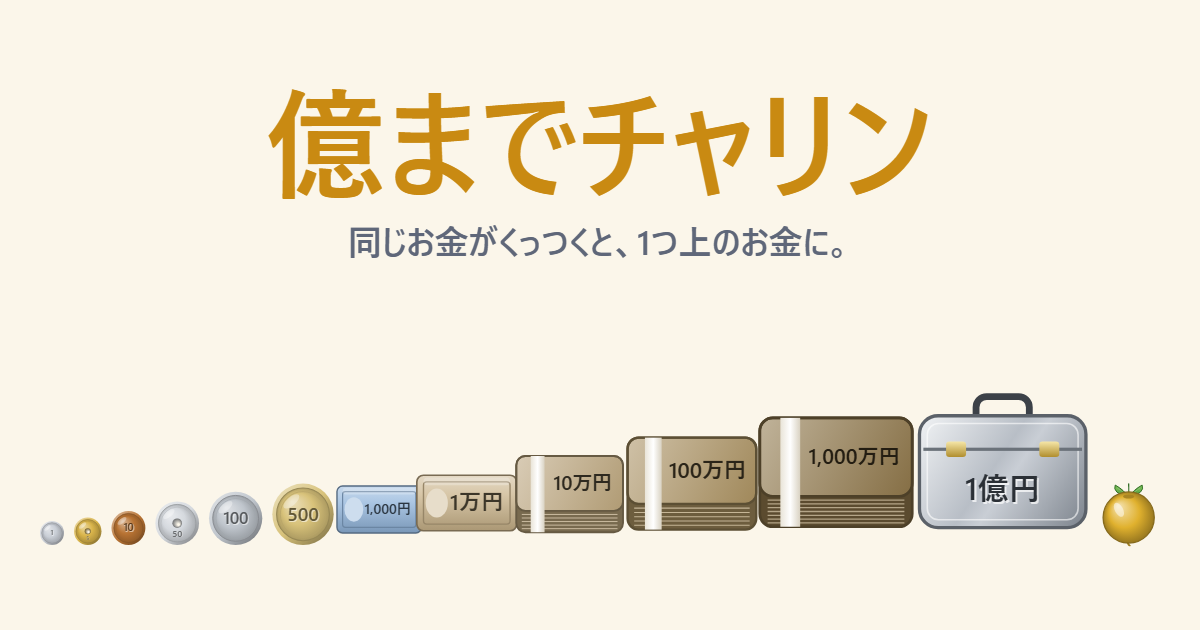
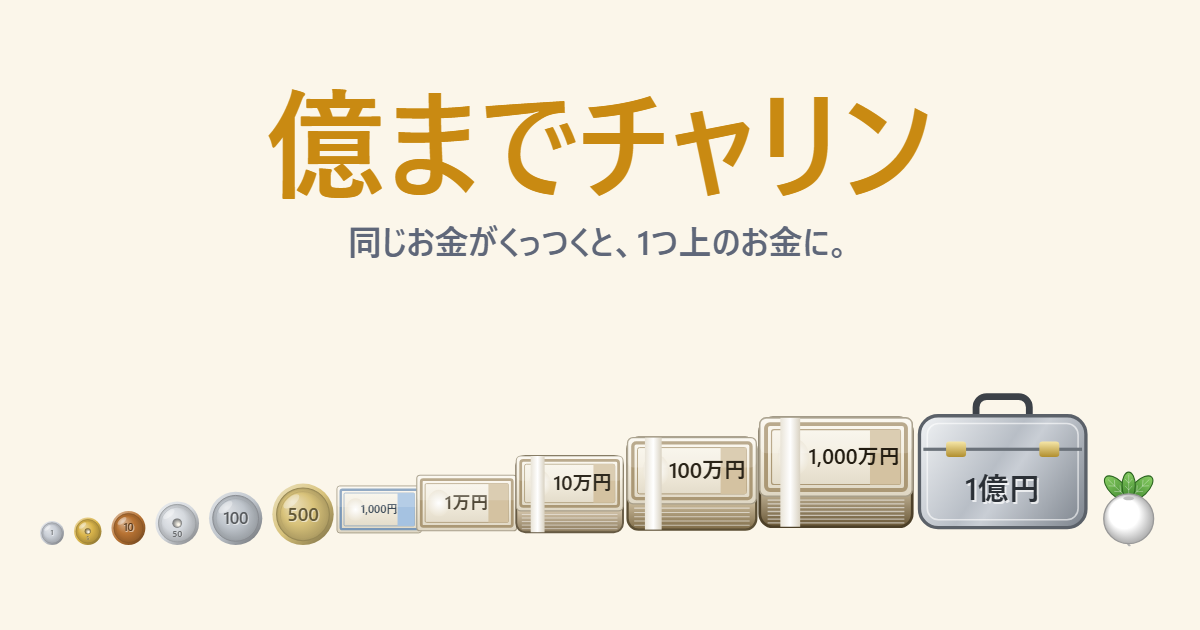
お札を紙幣風（案A）に、束の上のお札もそろえる。かぶの葉を大きく、カード画像のかぶを白に

Changed region(s): [[0.2775, 0.6333, 0.7708, 0.8746], [0.8942, 0.754, 0.9867, 0.8746]]

diff --git a/src/ui/render.ts b/src/ui/render.ts
@@ -13,7 +13,7 @@ const TOP = currency.tiers.length - 1;
 const FONT = 'system-ui, "Hiragino Sans", "Noto Sans JP", sans-serif';
 
 /** 色を白（amt>0）または黒（amt<0）に寄せる */
-function shade(hex: string, amt: number): string {
+export function shade(hex: string, amt: number): string {
   const n = parseInt(hex.slice(1), 16);
   const mix = (c: number) => Math.round(amt >= 0 ? c + (255 - c) * amt : c * (1 + amt));
   const r = mix((n >> 16) & 255);
@@ -23,7 +23,7 @@ function shade(hex: string, amt: number): string {
 }
 
 /** 文字を幅 maxW に収めて真ん中に書く。emboss なら左上に明るい影を付けて刻印のように */
-function label(ctx: CanvasRenderingContext2D, text: string, x: number, y: number, size: number, maxW: number, color: string, emboss = '') {
+export function label(ctx: CanvasRenderingContext2D, text: string, x: number, y: number, size: number, maxW: number, color: string, emboss = '') {
   ctx.font = `800 ${size}px ${FONT}`;
   const w = ctx.measureText(text).width;
   if (w > maxW) {
@@ -41,7 +41,7 @@ function label(ctx: CanvasRenderingContext2D, text: string, x: number, y: number
   ctx.fillText(text, x, yy);
 }
 
-function roundRect(ctx: CanvasRenderingContext2D, x: number, y: number, w: number, h: number, r: number) {
+export function roundRect(ctx: CanvasRenderingContext2D, x: number, y: number, w: number, h: number, r: number) {
   ctx.beginPath();
   ctx.roundRect(x, y, w, h, Math.max(0, r));
 }
@@ -111,49 +111,83 @@ function drawCoin(ctx: CanvasRenderingContext2D, tr: Tier, r: number, words: str
   ctx.fill();
 }
 
-/** お札：紙の面（少し反った光）、内側の枠、金額 */
-function drawBill(ctx: CanvasRenderingContext2D, tr: Tier, w: number, h: number, corner: number, words: string) {
-  const c = tr.color;
-  roundRect(ctx, -w / 2, -h / 2, w, h, corner);
+/** 四隅の小さな数字を描く大きさの下限（これより小さいお札では、つぶれるので描かない） */
+const BILL_DETAIL_MIN_H = 70;
+
+/** お札の面（2026-11-25 オーナー決定：案A 紙幣風）。生成りの紙に色インクの二重の枠と右の色帯、すかしの丸、
+ *  大きいときだけ四隅に小さな数字、紙の反りの光。肖像・地紋は描かない。(0,0) を中心に幅 w・高さ h */
+function billFace(ctx: CanvasRenderingContext2D, ink: string, w: number, h: number, corner: number, words: string, cornerNum: string) {
+  roundRect(ctx, -w / 2, -h / 2, w, h, corner * 0.5);
   const g = ctx.createLinearGradient(0, -h / 2, 0, h / 2);
-  g.addColorStop(0, shade(c, 0.5));
-  g.addColorStop(0.35, shade(c, 0.25));
-  g.addColorStop(1, shade(c, -0.15));
+  g.addColorStop(0, '#fbf8ef');
+  g.addColorStop(0.5, '#f1ebdc');
+  g.addColorStop(1, '#ded6c3');
   ctx.fillStyle = g;
   ctx.fill();
-  ctx.lineWidth = Math.max(0.8, h * 0.03);
-  ctx.strokeStyle = shade(c, -0.4);
+  ctx.lineWidth = Math.max(0.8, h * 0.02);
+  ctx.strokeStyle = '#a89f8a';
   ctx.stroke();
-  // 内側の枠
-  const m = h * 0.12;
-  roundRect(ctx, -w / 2 + m, -h / 2 + m, w - m * 2, h - m * 2, corner * 0.5);
-  ctx.lineWidth = Math.max(0.6, h * 0.025);
-  ctx.strokeStyle = shade(c, -0.25);
+  // インクの枠（二重線）
+  const m = h * 0.08;
+  roundRect(ctx, -w / 2 + m, -h / 2 + m, w - m * 2, h - m * 2, corner * 0.3);
+  ctx.lineWidth = Math.max(1, h * 0.05);
+  ctx.strokeStyle = shade(ink, -0.15);
   ctx.stroke();
-  // 左の丸い空き（すかしの場所。模様は描かない）
+  const m2 = m + h * 0.07;
+  roundRect(ctx, -w / 2 + m2, -h / 2 + m2, w - m2 * 2, h - m2 * 2, corner * 0.2);
+  ctx.lineWidth = Math.max(0.5, h * 0.015);
+  ctx.stroke();
+  // 右の色帯
+  const bw = w * 0.2;
+  ctx.fillStyle = shade(ink, 0.2);
+  ctx.fillRect(w / 2 - m2 - bw, -h / 2 + m2, bw, h - m2 * 2);
+  // すかしの丸（左）
+  const wx = -w * 0.28;
   ctx.beginPath();
-  ctx.ellipse(-w * 0.3, 0, h * 0.2, h * 0.26, 0, 0, Math.PI * 2);
-  ctx.fillStyle = shade(c, 0.55);
+  ctx.ellipse(wx, 0, h * 0.2, h * 0.24, 0, 0, Math.PI * 2);
+  const wm = ctx.createRadialGradient(wx, 0, 0, wx, 0, h * 0.24);
+  wm.addColorStop(0, '#ffffff');
+  wm.addColorStop(1, '#ebe4d3');
+  ctx.fillStyle = wm;
   ctx.fill();
-  if (words) label(ctx, words, w * 0.1, 0, h * 0.4, w * 0.55, shade(c, -0.7));
-  // 上のつや
-  roundRect(ctx, -w / 2 + corner, -h / 2 + h * 0.04, w - corner * 2, h * 0.14, h * 0.07);
-  ctx.fillStyle = 'rgba(255,255,255,0.25)';
+  // 四隅の数字（大きいときだけ）
+  if (cornerNum && h >= BILL_DETAIL_MIN_H) {
+    label(ctx, cornerNum, -w / 2 + m2 + h * 0.13, -h / 2 + m2 + h * 0.1, h * 0.16, w * 0.15, shade(ink, -0.45));
+    label(ctx, cornerNum, w / 2 - m2 - h * 0.13, h / 2 - m2 - h * 0.1, h * 0.16, w * 0.15, '#ffffff');
+  }
+  if (words) label(ctx, words, 0, 0, h * 0.36, w * 0.44, shade(ink, -0.6));
+  // 紙の反り（上が明るい）
+  roundRect(ctx, -w / 2, -h / 2, w, h * 0.45, corner * 0.5);
+  ctx.fillStyle = 'rgba(255,255,255,0.18)';
   ctx.fill();
 }
 
-/** 束：横から見た厚み（お札の重なり）＋上のお札＋帯 */
+/** お札の四隅の数字（1万円札なら「1」、千円札なら「1000」） */
+const billNumber = (value: number) => String(value >= 10_000 ? value / 10_000 : value);
+
+/** お札 */
+function drawBill(ctx: CanvasRenderingContext2D, tr: Tier, w: number, h: number, corner: number, words: string) {
+  billFace(ctx, tr.color, w, h, corner, words, billNumber(tr.value));
+}
+
+/** 束の上に見えるお札のインクの色：一番高いお札（1万円札）の色 */
+const BUNDLE_INK = [...currency.tiers].reverse().find((t) => t.look === 'bill')?.color ?? '#C9B38A';
+
+/** 束：横から見た厚み（お札の重なり）＋上のお札（案A の面）＋帯 */
 function drawBundle(ctx: CanvasRenderingContext2D, tr: Tier, w: number, h: number, corner: number, words: string) {
   const c = tr.color;
   const side = h * 0.28; // 厚みの部分
   const faceH = h - side;
-  // 厚み（下と右に見える紙の重なり）
+  // 厚み（紙の重なり。束ごとの色を少し混ぜる）
   roundRect(ctx, -w / 2, -h / 2, w, h, corner);
-  ctx.fillStyle = shade(c, -0.35);
+  const sg = ctx.createLinearGradient(0, -h / 2 + faceH, 0, h / 2);
+  sg.addColorStop(0, shade(c, 0.35));
+  sg.addColorStop(1, shade(c, -0.25));
+  ctx.fillStyle = sg;
   ctx.fill();
   const lines = tr.value >= 10_000_000 ? 7 : 5;
   ctx.lineWidth = Math.max(0.5, h * 0.012);
-  ctx.strokeStyle = shade(c, 0.35);
+  ctx.strokeStyle = 'rgba(255,255,255,0.55)';
   for (let i = 1; i <= lines; i++) {
     const y = -h / 2 + faceH + (side * i) / (lines + 1);
     ctx.beginPath();
@@ -161,18 +195,15 @@ function drawBundle(ctx: CanvasRenderingContext2D, tr: Tier, w: number, h: numbe
     ctx.lineTo(w / 2 - corner * 0.6, y);
     ctx.stroke();
   }
-  // 上のお札
-  roundRect(ctx, -w / 2, -h / 2, w, faceH, corner);
-  const g = ctx.createLinearGradient(-w / 2, -h / 2, w / 2, faceH - h / 2);
-  g.addColorStop(0, shade(c, 0.45));
-  g.addColorStop(1, shade(c, -0.05));
-  ctx.fillStyle = g;
-  ctx.fill();
+  roundRect(ctx, -w / 2, -h / 2, w, h, corner);
   ctx.lineWidth = Math.max(0.8, h * 0.025);
   ctx.strokeStyle = shade(c, -0.45);
   ctx.stroke();
-  roundRect(ctx, -w / 2, -h / 2, w, h, corner);
-  ctx.stroke();
+  // 上のお札（金額は帯の右に書くので、ここでは書かない）
+  ctx.save();
+  ctx.translate(0, -h / 2 + faceH / 2);
+  billFace(ctx, BUNDLE_INK, w, faceH, corner, '', '');
+  ctx.restore();
   // 帯（左寄り。厚みの部分まで回り込む）
   const bx = -w * 0.3;
   const bw = w * 0.13;
@@ -244,37 +275,49 @@ export function drawMoney(ctx: CanvasRenderingContext2D, tier: number, r: number
 /** かぶ（株）の玉を描く（2026-11-25 オーナー決定）。物理の形は円のまま。
  *  色は平均取得価額と今の株価で決まる（全部のかぶが同じ色）：同じなら白、上がると金、下がると黒 */
 export function drawTurnip(ctx: CanvasRenderingContext2D, r: number, color: string): void {
-  // 葉（3枚。葉脈つき）
+  // 葉（3枚。大きめ・葉脈つき。2026-11-25 オーナー指定で大きく）。付け根から先へ、ふっくらした楕円
+  const baseY = -r * 0.42;
   const leaves: [number, number][] = [
-    [-0.42, -0.95],
-    [0.42, -0.95],
-    [0, -1.0],
+    [-0.72, -1.12],
+    [0.72, -1.12],
+    [0, -1.28],
   ];
   for (const [lx, ly] of leaves) {
     const tipX = lx * r;
-    const tipY = ly * r * 0.92;
+    const tipY = ly * r;
+    const len = Math.hypot(tipX, tipY - baseY);
+    const ang = Math.atan2(tipY - baseY, tipX);
+    ctx.save();
+    ctx.translate(0, baseY);
+    ctx.rotate(ang);
     ctx.beginPath();
-    ctx.moveTo(0, -r * 0.5);
-    ctx.quadraticCurveTo(lx * r * 1.25, -r * 0.62, tipX, tipY);
-    ctx.quadraticCurveTo(lx * r * 0.35, -r * 0.72, 0, -r * 0.5);
-    const lg = ctx.createLinearGradient(0, -r * 0.5, tipX, tipY);
-    lg.addColorStop(0, '#3f8a2e');
-    lg.addColorStop(1, '#7cc35a');
+    ctx.ellipse(len / 2, 0, len / 2, len * 0.24, 0, 0, Math.PI * 2);
+    const lg = ctx.createLinearGradient(0, 0, len, 0);
+    lg.addColorStop(0, '#3a8229');
+    lg.addColorStop(1, '#86cc62');
     ctx.fillStyle = lg;
     ctx.fill();
-    ctx.lineWidth = Math.max(0.6, r * 0.03);
-    ctx.strokeStyle = '#2f6b22';
+    ctx.lineWidth = Math.max(0.6, r * 0.035);
+    ctx.strokeStyle = '#2b6420';
     ctx.stroke();
+    // 葉脈
     ctx.beginPath();
-    ctx.moveTo(0, -r * 0.52);
-    ctx.lineTo(tipX * 0.85, tipY * 0.9);
-    ctx.lineWidth = Math.max(0.5, r * 0.02);
-    ctx.strokeStyle = 'rgba(255,255,255,0.35)';
+    ctx.moveTo(len * 0.05, 0);
+    ctx.lineTo(len * 0.9, 0);
+    for (const t of [0.35, 0.6]) {
+      ctx.moveTo(len * t, 0);
+      ctx.lineTo(len * (t + 0.15), -len * 0.13);
+      ctx.moveTo(len * t, 0);
+      ctx.lineTo(len * (t + 0.15), len * 0.13);
+    }
+    ctx.lineWidth = Math.max(0.5, r * 0.025);
+    ctx.strokeStyle = 'rgba(255,255,255,0.4)';
     ctx.stroke();
+    ctx.restore();
   }
   // 実（少し下に寄せた丸）と、下に細い根
-  const cy = r * 0.14;
-  const br = r * 0.8;
+  const cy = r * 0.18;
+  const br = r * 0.78;
   ctx.beginPath();
   ctx.moveTo(-r * 0.04, cy + br * 0.95);
   ctx.quadraticCurveTo(0, r * 1.04, r * 0.05, r * 1.0);

diff --git a/src/dev/preview.ts b/src/dev/preview.ts
@@ -72,6 +72,6 @@ export function previewOg(): void {
   const kr = Math.max(12, config.stock.radius * k * 1.2);
   ctx.save();
   ctx.translate(x + kr, base - kr);
-  drawTurnip(ctx, kr, config.stock.color.up);
+  drawTurnip(ctx, kr, config.stock.color.base);
   ctx.restore();
 }

diff --git a/docs/ロードマップ.md b/docs/ロードマップ.md
@@ -74,5 +74,8 @@
 - 2026-11-25（#5。オーナー決定）：**Google Analytics は使わない**。計測は Vercel Analytics（ページが見られた回数）だけ（要件定義書 C8・設計書 5.4 から変更。#7 で計測の範囲をあらためて確認）
 - 2026-11-25（#5。オーナー了承）：結果画面の文字「株で減った額 −◯円（買った額 ◯円）」「タイトルへ」「開発者をXでフォロー @shooojp19」「ほかのゲームでも遊ぶ（Ted App Lab）」
 - 2026-11-25（#6 のあと。オーナー決定）：お金とかぶを立体的に描く。**お札・束・ケースは角の丸い四角（見た目もぶつかり方も）**、面積は同じ段の丸とほぼ同じ（設計書 1.2 の「物理の形はすべて円」から変更。sim は円のままなので #8 で sim も直して確かめる）
+  - お札の描き方は**案A（紙幣風）**：生成りの紙に色インクの二重の枠と右の色帯、すかしの丸、大きいときだけ四隅に小さな数字。束の上のお札も同じ描き方
+  - かぶの葉を大きく。カード画像のかぶは白
+  - 5千円札は入れない（決定 #4 の12段のまま。確認のみ）
 - 2026-11-25（#4 のあとの確認。オーナー決定）：遊び方の②を「「かぶ」を押すとチャートが開きます。「買」を押すと、現金から1株の値段が引かれ、かぶ（株）の玉が上から降ってきます…」に変更
 - 2026-11-24（#2）：金額の表示に使う「億」「万」を、プログラムに直接書かず `src/data/i18n/ja.json` の `num` に置いた（画面の見え方は変わらない）
